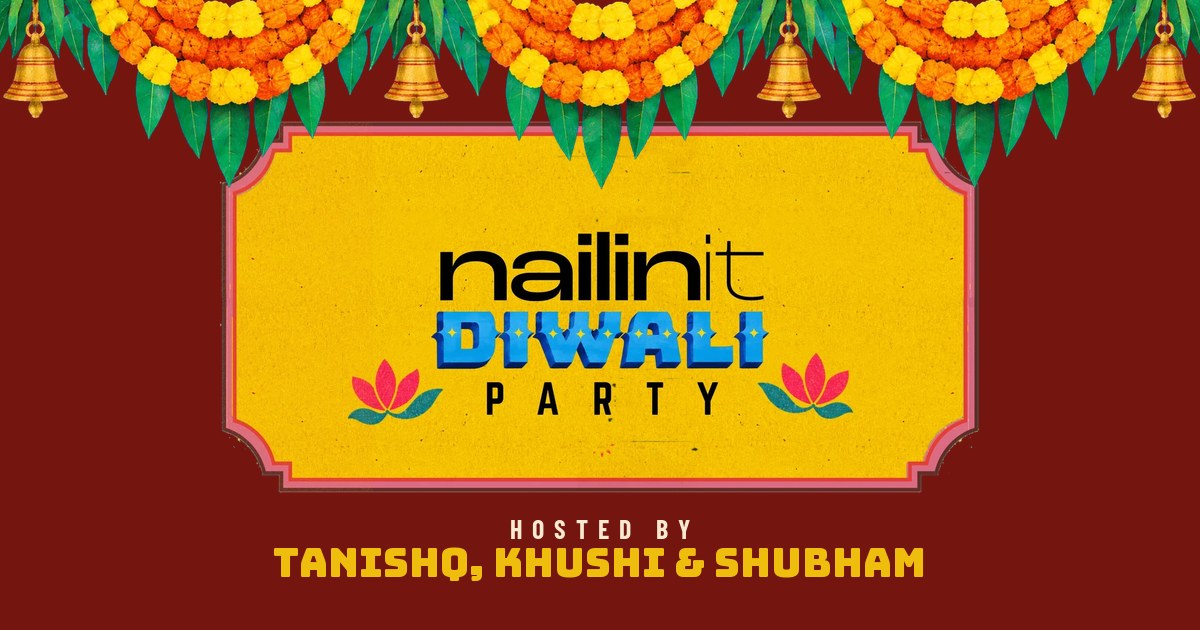
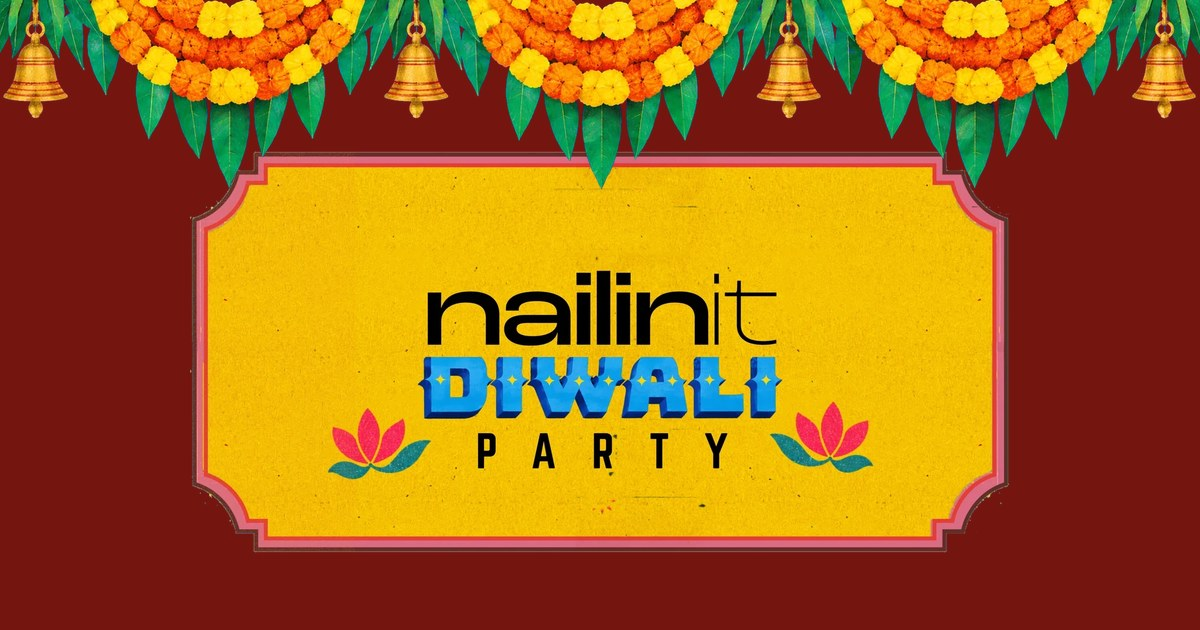
diwali: hosts reorder, preview without names, web analytics

Changed region(s): [[0.1542, 0.181, 0.8633, 0.9349]]

diff --git a/diwali/index.html b/diwali/index.html
@@ -26,7 +26,7 @@
 <link rel="preload" as="image" href="assets/mb_sleeve.webp?v=3">
 <link rel="preload" as="image" href="assets/mb_tray.webp">
 <link rel="preload" as="image" href="assets/match.webp">
-<script>/* two invites, one site: party.nailin.it = hosted by Tanishq, Khushi & Shubham; everywhere else = DOT presents */
+<script>/* two invites, one site: party.nailin.it = hosted by Khushi, Tanishq & Shubham; everywhere else = DOT presents */
 /* every visit starts at the envelope: the page is scroll-locked until the reveal, so a restored scroll position would strand you mid-page */
 try { history.scrollRestoration = 'manual'; } catch (e) {} window.scrollTo(0, 0); addEventListener('pageshow', () => { if (document.body && document.body.classList.contains('locked')) window.scrollTo(0, 0); });
 window.SITE = /^party\./.test(location.hostname) ? 'party' : 'dot'; document.documentElement.dataset.site = SITE;
@@ -35,7 +35,7 @@ window.CARD = SITE === 'party' ? 'assets/invite_card_host.webp' : 'assets/invite
 <link rel="preconnect" href="https://fonts.googleapis.com">
 <link rel="preconnect" href="https://fonts.gstatic.com" crossorigin>
 <link href="https://fonts.googleapis.com/css2?family=Bakbak+One&family=Bungee&family=Teko:wght@400;500;600&family=Barlow:wght@500;600;700&family=Barlow+Condensed:wght@500;600;700&family=Palanquin+Dark:wght@400;600;700&display=swap" rel="stylesheet">
-<link rel="stylesheet" href="style.css?v=1793022722">
+<link rel="stylesheet" href="style.css?v=1793022964">
 <style>
 /* loader: inline so it paints before anything else arrives */
 #ldr { position: fixed; inset: 0; z-index: 100; display: grid; place-items: center; background: radial-gradient(90% 70% at 50% 45%, #3a0a06 0%, #1a0503 70%, #0e0302 100%); color: #f7e6c8; transition: opacity .6s ease, visibility 0s linear .6s; }
@@ -104,7 +104,7 @@ window.CARD = SITE === 'party' ? 'assets/invite_card_host.webp' : 'assets/invite
 
     <!-- the invite inside the envelope: the deck's AAO poster -->
     <div id="card" class="card" aria-hidden="true"><img id="cardImg" alt="DOT presents nailinit Diwali Party"><script>document.getElementById('cardImg').src = CARD; if (SITE === 'party') document.getElementById('cardImg').alt = 'nailinit Diwali Party, hosted by Tanishq, Khushi and Shubham';</script><i class="card-foil f-gold"></i><i class="card-foil f-blue"></i><i class="card-foil f-ink"></i><i class="card-sheen"></i></div>
-    <div id="cardname" class="cardname"><span class="foil" data-name>dost</span>... swagat <small>(with swag)</small><em class="host-line">hosted by <b>Tanishq, Khushi &amp; Shubham</b></em></div>
+    <div id="cardname" class="cardname"><span class="foil" data-name>dost</span>... swagat <small>(with swag)</small><em class="host-line">hosted by <b>Khushi, Tanishq &amp; Shubham</b></em></div>
 
     <canvas id="env" aria-label="Your envelope"></canvas>
 
@@ -333,9 +333,11 @@ window.CARD = SITE === 'party' ? 'assets/invite_card_host.webp' : 'assets/invite
   <button class="mx-pill" id="mxPlay" type="button" aria-label="Pause music"><span class="mx-eq" aria-hidden="true"><i></i><i></i><i></i><i></i></span><b id="mxTitle">mohalla diwali mix</b><span class="mx-ic" id="mxIc">❚❚</span></button>
   <a class="mx-link" id="mxLink" href="#" target="_blank" rel="noopener" aria-label="Open the playlist on YouTube">↗</a>
 </div>
-<script src="config.js?v=1793022722"></script>
-<script src="lib.js?v=1793022722"></script>
-<script src="app.js?v=1793022722"></script>
-<script src="games.js?v=1793022722"></script>
+<script src="config.js?v=1793022964"></script>
+<script src="lib.js?v=1793022964"></script>
+<script src="app.js?v=1793022964"></script>
+<script src="games.js?v=1793022964"></script>
+<!-- Cloudflare Web Analytics (cookieless page views, both hosts): dash → Analytics & Logs → Web Analytics → diwali.nailin.it -->
+<script defer src="https://static.cloudflareinsights.com/beacon.min.js" data-cf-beacon='{"token": "a5d5840e60434566ad096fb1208ac78d"}'></script>
 </body>
 </html>

diff --git a/diwali/make.html b/diwali/make.html
@@ -58,8 +58,8 @@
     <table id="tbl" hidden><thead><tr><th>Name</th><th>Link</th><th></th></tr></thead><tbody></tbody></table>
   </section>
 </main>
-<script src="config.js?v=1793022722"></script>
-<script src="lib.js?v=1793022722"></script>
+<script src="config.js?v=1793022964"></script>
+<script src="lib.js?v=1793022964"></script>
 <script>
 (() => {
   const $ = s => document.querySelector(s);
